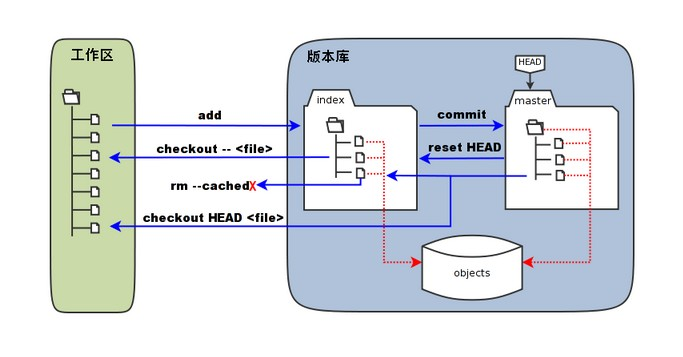
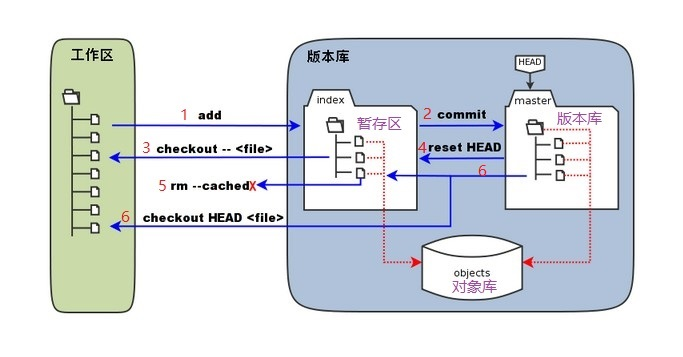
x

diff --git a/03-git.md b/03-git.md
@@ -1,25 +1,58 @@
 ## 基本概念
 
 - **工作区：**就是你在电脑里能看到的目录。
-- **暂存区：**英文叫stage, 或index。一般存放在 ".git目录下" 下的index文件（.git/index）中，所以我们把暂存区有时也叫作索引（index）。
+
+- **暂存区：**".git目录下" 下的index文件
+
 - **版本库：**工作区有一个隐藏目录.git，这个不算工作区，而是Git的版本库。
+
+- **对象库：**位于 ".git/objects" 目录下，里面包含了创建的各种对象及内容。
+
+- **HEAD：** 指向某分支的一个"游标"
+
+- `HEAD`: The current ref that you’re looking at. In most cases it’s probably refs/heads/master 
+
+  当前目录下最近的一次commit
+- `FETCH_HEAD`: The SHAs of branch/remote heads that were updated during the last git fetch  从远端或分支fetch过来的标志
+- `ORIG_HEAD`: When doing a merge, this is the SHA of the branch you’re merging into. 
+做合并时合并后的分支
+- `MERGE_HEAD`: When doing a merge, this is the SHA of the branch you’re merging from. 
+合并时合并前的分支
+- `CHERRY_PICK_HEAD`: When doing a cherry-pick, this is the SHA of the commit which you are cherry-picking.
 
 ![](./img/git/git-01.jpg)
 
-图中左侧为工作区，右侧为版本库。在版本库中标记为 "index" 的区域是暂存区（stage, index），标记为 "master" 的是 master 分支所代表的目录树。
+1.  "git add"时 ，暂存区的目录树被更新，同时工作区修改（或新增）的文件内容被写入到对象库中的一个新的对象中，而该对象的ID被记录在index中。
+2. "git commit"时，暂存区的目录树写到版本库（对象库）中，master 分支会做相应的更新。即 master 指向的目录树就是提交时暂存区的目录树。
+3.  "git checkout ." 或者 "git checkout --filename" 时，会用暂存区全部或指定的文件覆盖工作区的文件。这个操作很危险，会清除工作区中未添加到暂存区的改动。
+4. "git reset HEAD" 时，暂存区的目录树会被重写，被 master 分支指向的目录树所覆盖，但是工作区不受影响。
+5.  "git rm --cached filename" 时，会直接从暂存区删除文件，工作区则不做出改变。
+6.  "git checkout HEAD ." 或者 "git checkout HEAD filename" 命令时，会用 HEAD 指向的 master 分支中的全部或者部分文件覆盖暂存区和以及工作区中的文件。这个命令也是极具危险性的，因为不但会清除工作区中未提交的改动，也会清除暂存区中未提交的改动。
 
- "HEAD" 实际是指向 master 分支的一个"游标"。
 
-图中的 objects 标识的区域为 Git 的对象库，实际位于 ".git/objects" 目录下，里面包含了创建的各种对象及内容。
 
- "git add"时 ，暂存区的目录树被更新，同时工作区修改（或新增）的文件内容被写入到对象库中的一个新的对象中，而该对象的ID被记录在暂存区的文件索引中。
+## 常用命令
 
-"git commit"时，暂存区的目录树写到版本库（对象库）中，master 分支会做相应的更新。即 master 指向的目录树就是提交时暂存区的目录树。
+```bash
+#查看分支
+git branch 
+git branch -a
+#创建分支
+git branch branchname
+#切换分支
+git checkout branchname
+#合并分支
+git merge 
 
-"git reset HEAD" 时，暂存区的目录树会被重写，被 master 分支指向的目录树所替换，但是工作区不受影响。
+#从远程仓库下载新分支与数据
+git fetch
+#从远端仓库提取数据并尝试合并到当前分支：
+git merge
+#要查看当前配置有哪些远程仓库，可以用命令：
+git remote
+git remote -v
 
- "git rm --cached <file>" 时，会直接从暂存区删除文件，工作区则不做出改变。
+```
 
- "git checkout ." 或者 "git checkout -- <file>" 时，会用暂存区全部或指定的文件替换工作区的文件。这个操作很危险，会清除工作区中未添加到暂存区的改动。
 
-当执行 "git checkout HEAD ." 或者 "git checkout HEAD <file>" 命令时，会用 HEAD 指向的 master 分支中的全部或者部分文件替换暂存区和以及工作区中的文件。这个命令也是极具危险性的，因为不但会清除工作区中未提交的改动，也会清除暂存区中未提交的改动。
+
